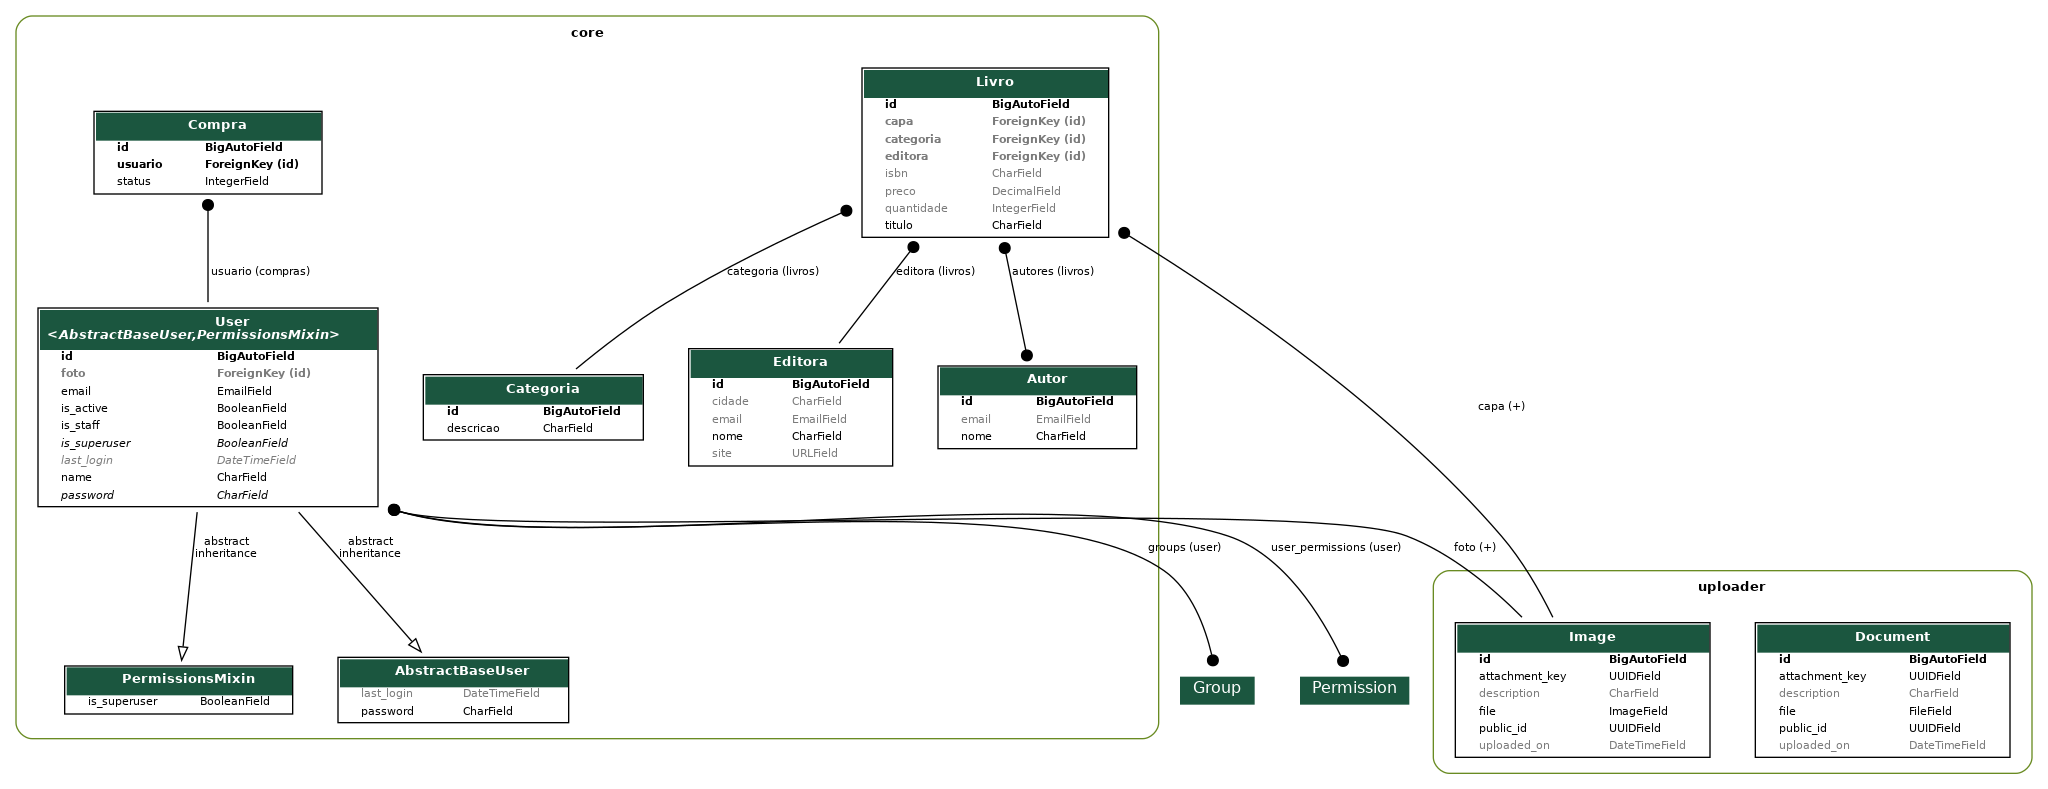
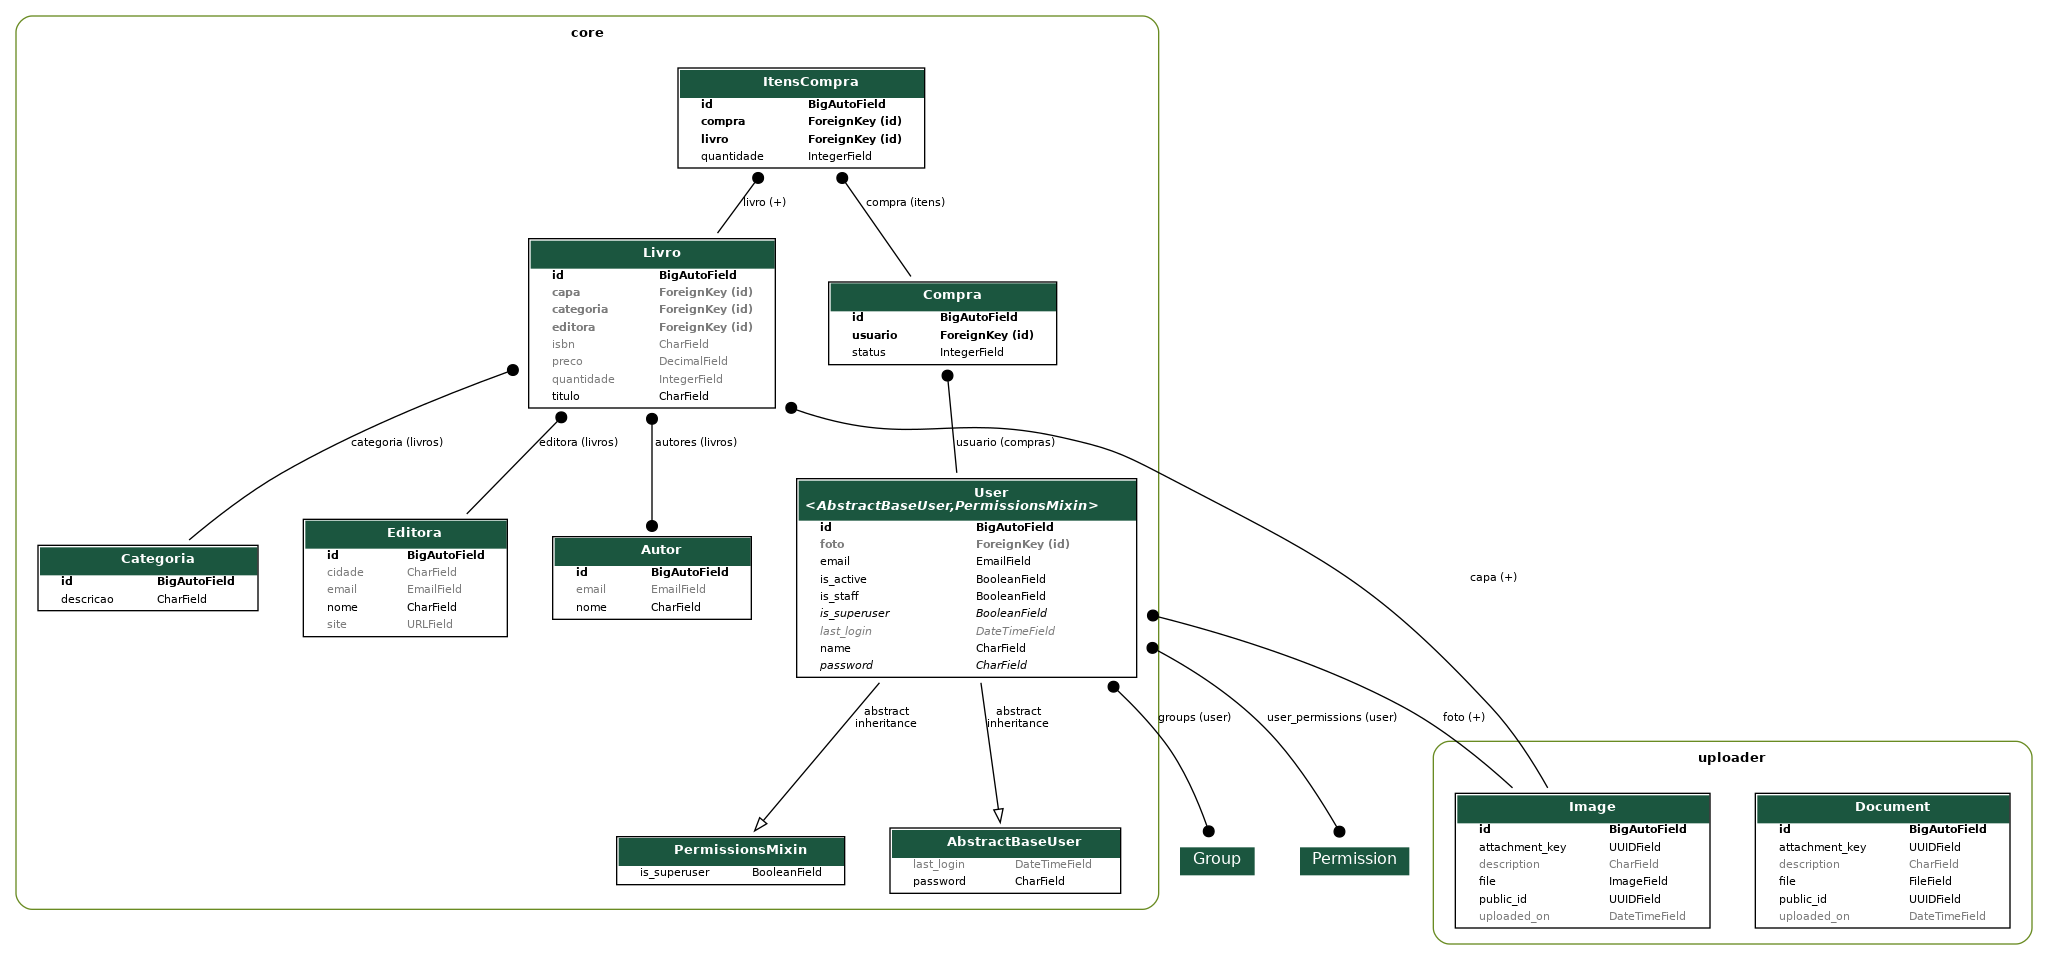
Criação dos itens da compra

diff --git a/core/migrations/0017_itenscompra.py b/core/migrations/0017_itenscompra.py
@@ -1,0 +1,31 @@
+# Generated by Django 5.1 on 2024-09-09 14:33
+
+import django.db.models.deletion
+from django.db import migrations, models
+
+
+class Migration(migrations.Migration):
+
+    dependencies = [
+        ("core", "0016_compra"),
+    ]
+
+    operations = [
+        migrations.CreateModel(
+            name="ItensCompra",
+            fields=[
+                ("id", models.BigAutoField(auto_created=True, primary_key=True, serialize=False, verbose_name="ID")),
+                ("quantidade", models.IntegerField(default=1)),
+                (
+                    "compra",
+                    models.ForeignKey(
+                        on_delete=django.db.models.deletion.CASCADE, related_name="itens", to="core.compra"
+                    ),
+                ),
+                (
+                    "livro",
+                    models.ForeignKey(on_delete=django.db.models.deletion.PROTECT, related_name="+", to="core.livro"),
+                ),
+            ],
+        ),
+    ]

diff --git a/core/models/compra.py b/core/models/compra.py
@@ -1,6 +1,7 @@
 from django.db import models
 
 from .user import User
+from .livro import Livro
 
 class Compra(models.Model):
     class StatusCompra(models.IntegerChoices):
@@ -11,3 +12,8 @@ class Compra(models.Model):
 
     usuario = models.ForeignKey(User, on_delete=models.PROTECT, related_name="compras")
     status = models.IntegerField(choices=StatusCompra.choices,  default=StatusCompra.CARRINHO)
+
+class ItensCompra(models.Model):
+    compra = models.ForeignKey(Compra, on_delete=models.CASCADE, related_name="itens")
+    livro = models.ForeignKey(Livro, on_delete=models.PROTECT, related_name="+")
+    quantidade = models.IntegerField(default=1)

diff --git a/core/models/__init__.py b/core/models/__init__.py
@@ -3,5 +3,5 @@ from .categoria import Categoria
 from .editora import Editora
 from .autor import Autor
 from .livro import Livro
-from .compra import Compra
+from .compra import Compra, ItensCompra
 
